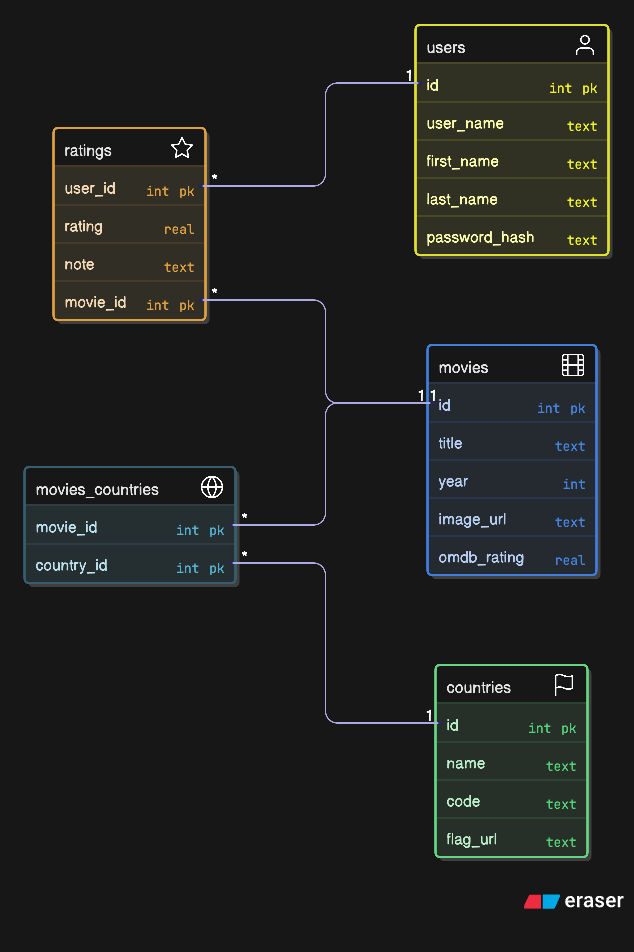
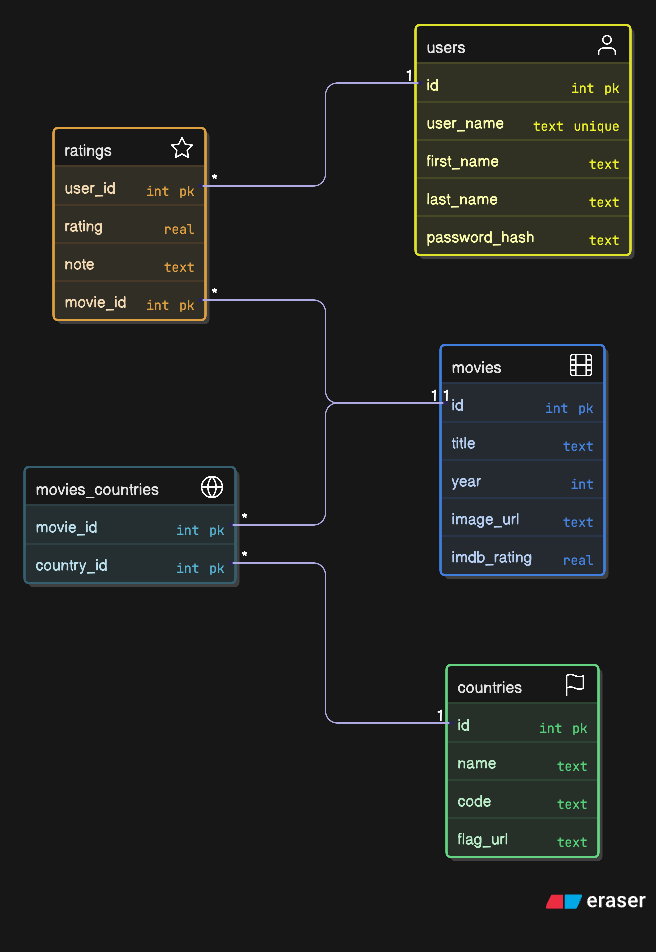
Rename field name in database table (minor change)
- Renamed field 'omdb_rating' to 'imdb_rating' in 'movies' table.
- Change is reflecting the actual key name provided by the OMDB API.
- Updated all affected queries and functions accordingly.

NOTE:
The field 'imdb_rating' only prepares for possible future features,
where user rating and imdb rating need to be discriminated.

diff --git a/db_queries.py b/db_queries.py
@@ -7,7 +7,7 @@ performing CRUD operations to the database.
 Simplified database structure for the project:
 
     users: id:int (PK), user_name:text (unique), first_name:text, last_name:text, password_hash:text
-    movies: id:int (PK), title:text (unique), year:int, image_url:text, omdb_rating:real
+    movies: id:int (PK), title:text (unique), year:int, image_url:text, imdb_rating:real
     countries: id:int (PK), name:text, code:text, flag_url:text
     movies_countries: movie_id:int (FK), country_id:int (FK)
     ratings: user_id:int (PK, FK), movie_id:int (PK, FK), rating:real, note:text
@@ -43,7 +43,7 @@ CREATE_TABLE_MOVIES = """
         title       TEXT UNIQUE NOT NULL,
         year        INTEGER NOT NULL,
         image_url   TEXT,
-        omdb_rating REAL
+        imdb_rating REAL
     )"""
 CREATE_TABLE_MOVIES_COUNTRIES = """
         CREATE TABLE IF NOT EXISTS movies_countries (
@@ -66,8 +66,8 @@ CREATE_TABLE_RATINGS = """
 # ---------------------------------------------------------------------
 ADD_USER = ""
 ADD_COUNTRY = "INSERT INTO countries (name, code) VALUES (:name, :code)"
-ADD_MOVIE = ("INSERT INTO movies (title, year, image_url, omdb_rating)"
-             "VALUES (:title, :year, :image_url, :omdb_rating)")
+ADD_MOVIE = ("INSERT INTO movies (title, year, image_url, imdb_rating)"
+             "VALUES (:title, :year, :image_url, :imdb_rating)")
 ADD_RATING = ("INSERT INTO ratings (user_id, movie_id, rating, note)"
               "VALUES (:user_id, :movie_id, :rating, :note)")
 ADD_MOVIE_COUNTRY = """
@@ -82,7 +82,7 @@ GET_MOVIES = """
         movies.title,
         movies.year,
         movies.image_url,
-        movies.omdb_rating,
+        movies.imdb_rating,
         ratings.rating,
         ratings.note
     FROM ratings
@@ -97,7 +97,7 @@ GET_MOVIES_ALL_USERS = """
         movies.title,
         movies.year,
         movies.image_url,
-        movies.omdb_rating
+        movies.imdb_rating
     FROM movies
 """
 GET_MOVIE_BY_TITLE = """
@@ -106,7 +106,7 @@ GET_MOVIE_BY_TITLE = """
         movies.title,
         movies.year,
         movies.image_url,
-        movies.omdb_rating
+        movies.imdb_rating
     FROM movies
     WHERE movies.title = :title
 """
@@ -116,7 +116,7 @@ GET_MOVIE_BY_ID = """
         movies.title,
         movies.year,
         movies.image_url,
-        movies.omdb_rating
+        movies.imdb_rating
     FROM movies
     WHERE movies.id = :id
 """
@@ -138,7 +138,7 @@ GET_COUNTRIES_FOR_MOVIE = """
 UPDATE_USER = ""
 UPDATE_MOVIE = """
     UPDATE movies 
-    SET title = :title, year = :year, image_url = :image_url, omdb_rating = :omdb_rating
+    SET title = :title, year = :year, image_url = :image_url, imdb_rating = :imdb_rating
     WHERE id = :id
 """
 UPDATE_RATING = """

diff --git a/data_processing.py b/data_processing.py
@@ -16,7 +16,7 @@ def get_movies(user_id=None):
         movies = db.get_movies(params)
         movies_dict = {movie[0]: {"year": movie[1],
                                   "image_url": movie[2],
-                                  "omdb_rating": movie[3],
+                                  "imdb_rating": movie[3],
                                   "rating": movie[4],
                                   "note": movie[5]}
                        for movie in movies}
@@ -24,7 +24,7 @@ def get_movies(user_id=None):
         movies = db.get_movies()
         movies_dict = {movie[0]: {"year": movie[1],
                                   "image_url": movie[2],
-                                  "omdb_rating": movie[3]}
+                                  "imdb_rating": movie[3]}
                        for movie in movies}
     return movies_dict
 
@@ -40,7 +40,7 @@ def get_movie(search_value, find_by_id=False) -> dict:
                     "title": movie[1],
                     "year": movie[2],
                     "image_url": movie[3],
-                    "omdb_rating": movie[4]
+                    "imdb_rating": movie[4]
                     }
     return movie_object
 
@@ -104,12 +104,12 @@ def add_movie_country_relationship(movie_id, country_id):
     db.add_movie_country_relationship(params)
 
 
-def add_movie(title, year, image_url, omdb_rating):
+def add_movie(title, year, image_url, imdb_rating):
     """Add movie to the database and return the id."""
     params = {"title": title,
               "year": year,
               "image_url": image_url,
-              "omdb_rating": omdb_rating}
+              "imdb_rating": imdb_rating}
     db.add_movie(params)
     return get_movie(title)["id"]
 
@@ -154,7 +154,7 @@ def std_movie_from_api(movie):
     """
     movie_object = {movie["Title"]: {"year": movie["Year"],
                                      "image_url": movie["Poster"],
-                                     "omdb_rating": movie["imdbRating"],
+                                     "imdb_rating": movie["imdbRating"],
                                      "country": movie["Country"].split(", ")
                                      }}
     return movie_object

diff --git a/movies.py b/movies.py
@@ -339,14 +339,14 @@ def add_movie_rating():
         print(movie_obj)
         year = movie_obj["year"]
         image_url = movie_obj["image_url"]
-        omdb_rating = movie_obj["omdb_rating"]
+        imdb_rating = movie_obj["imdb_rating"]
         countries = movie_obj["country"]
         cprint_info("Movie details complete. Adding movie to database...")
         # Add movie to the database.
         movie_id = data_processing.add_movie(movie_title,
                                              year,
                                              image_url,
-                                             omdb_rating)
+                                             imdb_rating)
         cprint_info(f"Successfully added '{movie_title}'. (ID: {movie_id})")
         # Finally add new country objects to the database...
         # ...and create movie-country relationships.
